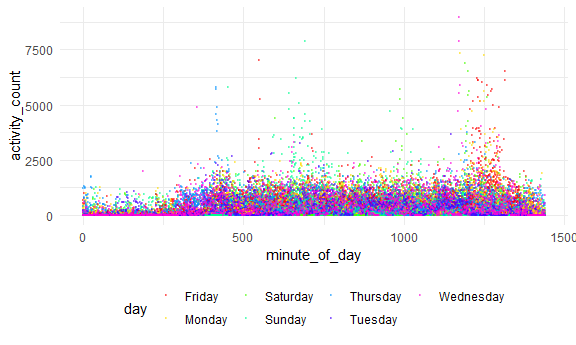
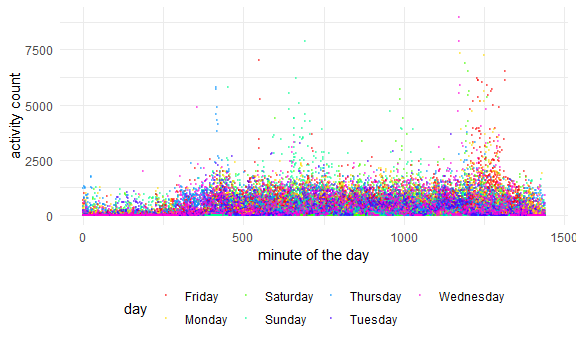
final tweaks

Changed region(s): [[0.0, 0.2029, 0.0625, 0.4638], [0.4375, 0.7246, 0.6562, 0.7536]]

diff --git a/p8105_hw3_dtw2127.md b/p8105_hw3_dtw2127.md
@@ -11,10 +11,10 @@ data("instacart")
 ```
 
 The instacart dataset contains 1384617 rows of data for 15 variables.
-Key variables include order ID, product ID, add to cart order, user ID,
-order hour of day, days since prior order, and department.
-
-The dataset contains information from 131209 users.
+All variables are either integer or character variables. Some key
+variables include order ID, product ID, add to cart order, user ID,
+order hour of day, days since prior order, and department. The dataset
+contains information from 131209 users.
 
 Let’s see how many different products are carried by each department.
 
@@ -196,6 +196,8 @@ or early afternoon.
 ## Problem 2
 
 First, let’s load in the BRFSS data and then do some data cleaning.
+We’ll order the responses for “Overall Health” from “Poor” to
+“Excellent”.
 
 ``` r
 data("brfss_smart2010") #rename some of the variables
@@ -336,7 +338,9 @@ accel_data = read_csv("./data/accel_data.csv") %>%
     ## i Specify the column types or set `show_col_types = FALSE` to quiet this message.
 
 The resulting dataset has the variables week, day\_id, day, activity,
-activity\_count and weekend. For these 6 variables, there are
+activity\_count and weekend. The variables are all numeric, except for
+day which is a character variable and weekend which is a factor variable
+(value of 1 if a weekday, 0 if not). For these 6 variables, there are
 `nrow(accel_data)` observations over
 `r pull(accel_data, day_id) %>% unique() %>% length()` days. The minimum
 activity\_count is 1 and the max activity count is 8982.
@@ -401,12 +405,18 @@ each day.
 accel_data %>% 
   ggplot(aes(x = minute_of_day, y = activity_count)) + 
   geom_point(aes(color = day), size = .3, alpha = 0.4) + 
-  scale_colour_manual(values = rainbow(7)) 
+  scale_colour_manual(values = rainbow(7)) + 
+  labs(x = "minute of the day", y = "activity count")
 ```
 
 <img src="p8105_hw3_dtw2127_files/figure-gfm/unnamed-chunk-14-1.png" width="90%" />
 
 Activity count is lower at the beginning of the day and picks up at
-around the 300 minute mark. There are periods of high activity in the
-middle of the day on Saturday and Sunday. On Mondays, Wednesday and
-Fridays, there is a burst in activity near the end of the day.
+around the 300 minute mark. The activity count is relatively uniform
+throughout the day and tends to stay below 2500 activity counts, but
+there are pockets of higher activity. There are periods of high activity
+in the middle of the day (just before the 750 minute mark and at around
+the 1000 and 1250 minute mark) on Saturday and Sunday. On Mondays,
+Wednesdays and Fridays, there is a burst in activity near the end of the
+day (1250 minute mark). On Thursdays there is also a burst in activity
+right before the 500 minute mark.
